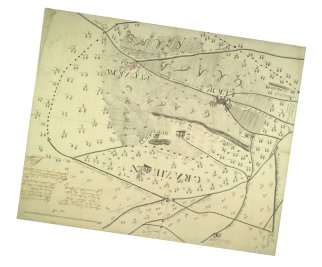
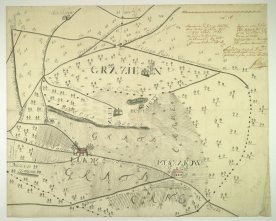
Map thumbnails follow the tiles: Łukom 1766's thumb remade from the JPG, Zagórów 1841's made (2026-11-14)

diff --git a/pipeline/build/make_thumbs.py b/pipeline/build/make_thumbs.py
@@ -209,9 +209,16 @@ def maps(expected):
         count += 1
         dst = os.path.join(THUMBS, f'map-{key}.jpg')
         expected.add(os.path.basename(dst))
-        if not FORCE and os.path.isfile(dst):
-            pass
-        else:
+        # The tiles are the source and can be cut again (a map re-backed onto
+        # another image, Lukom 1766 on 2026-11-06, kept its old face for eight
+        # days because "already there" was taken as current): the served
+        # picture is compared with the thumb's bytes and the thumb is written
+        # whenever they differ.
+        same = False
+        if os.path.isfile(dst):
+            with open(dst, 'rb') as fb:
+                same = fb.read() == r.content
+        if FORCE or not same:
             with open(dst, 'wb') as fb:
                 fb.write(r.content)
             made += 1

diff --git a/docs/WORKING_NOTES.md b/docs/WORKING_NOTES.md
@@ -3784,6 +3784,13 @@ pages at 390, 360 and 320 px, served from `site/_site`, measuring
   taken. Now the edits wait for a red Save changes, the list shows the
   label as saved, and leaving unsaved edits asks. A list that shows a
   record must show the record, not the template it was made from.
+- **A map's card thumbnail follows its tiles (the editor, 2026-11-14).**
+  Łukom 1766's thumbnail kept the face of the old north-up PNG for eight days
+  after the map was re-backed onto the JPG: make_thumbs.py skipped any map
+  thumb that already existed. It now fetches the served whole-map picture and
+  rewrites the thumb when the bytes differ. When a map's image changes, run
+  `python pipeline/build/make_thumbs.py` and `map_pages.py`, and look at the
+  thumb.
 - **"The map tiles did not load (HTTP 503 ...)" is GitHub Pages, not the
   tiles (2026-11-14).** The editor saw it on the published Mapa dróg 1890;
   the same info.json answered 200 a few minutes later and the page opened.

diff --git a/docs/CHANGELOG.md b/docs/CHANGELOG.md
@@ -6321,3 +6321,4 @@ sources-icon.html`).
 
 - The editor's six marks imported; mark-only fit over five points, RMS 376 m, `in_project: true`. Imielno, Wymysłów and Długa Górka confirmed by OSM's lookup (every written coordinate matched) and made surveyed so they join the fit.
 - New gazetteer entry **Lipowa Górka** (`lipowa-gorka`): a hill, placed from the label, the name explained (*lipa* + *górka*); no other record was found. Label type left "unsure" (no hill type). Not published.
+- The editor: Łukom 1766's card thumbnail still showed the old image. `make_thumbs.py` kept an existing map thumb whatever the tiles served; it now compares the served picture with the thumb and rewrites on a difference. Łukom 1766's thumb remade from the JPG, Zagórów 1841's made (it had none). Not published.
